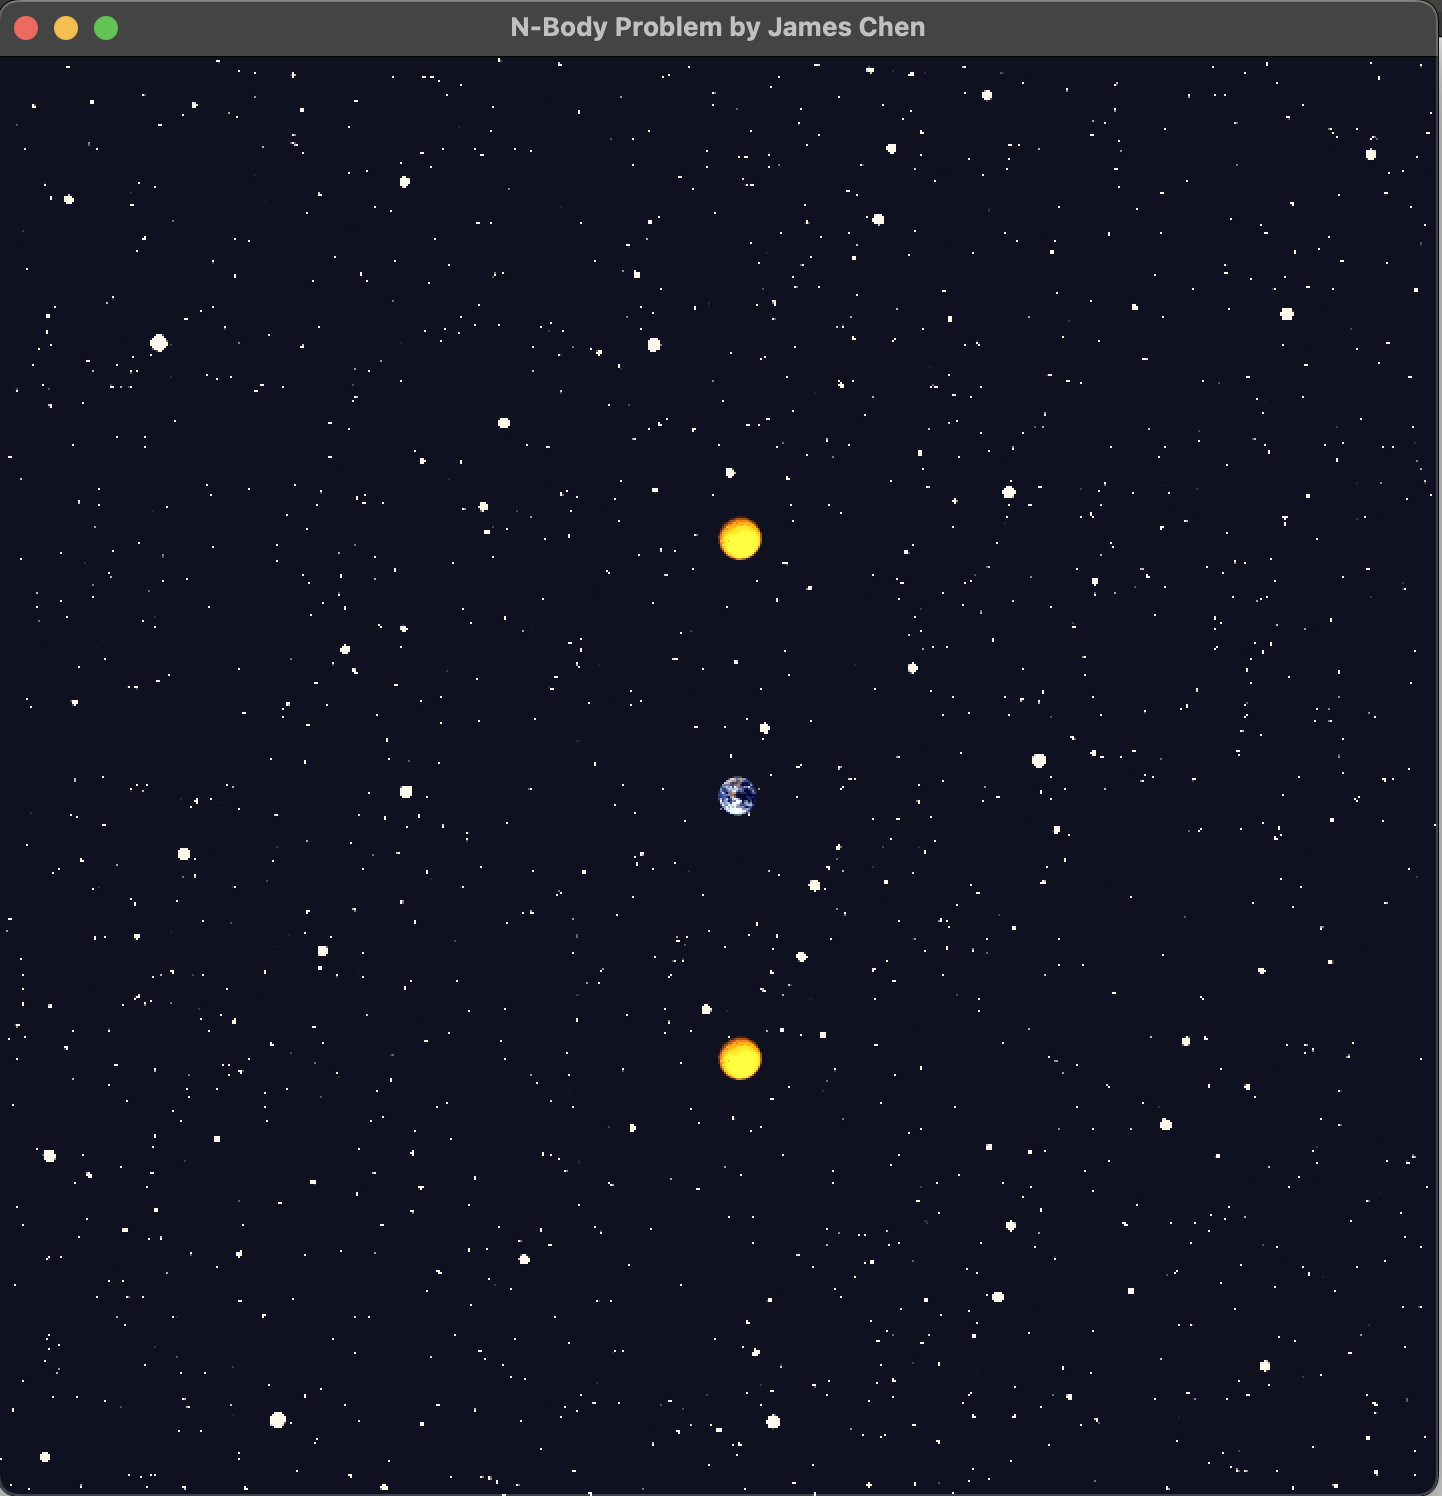
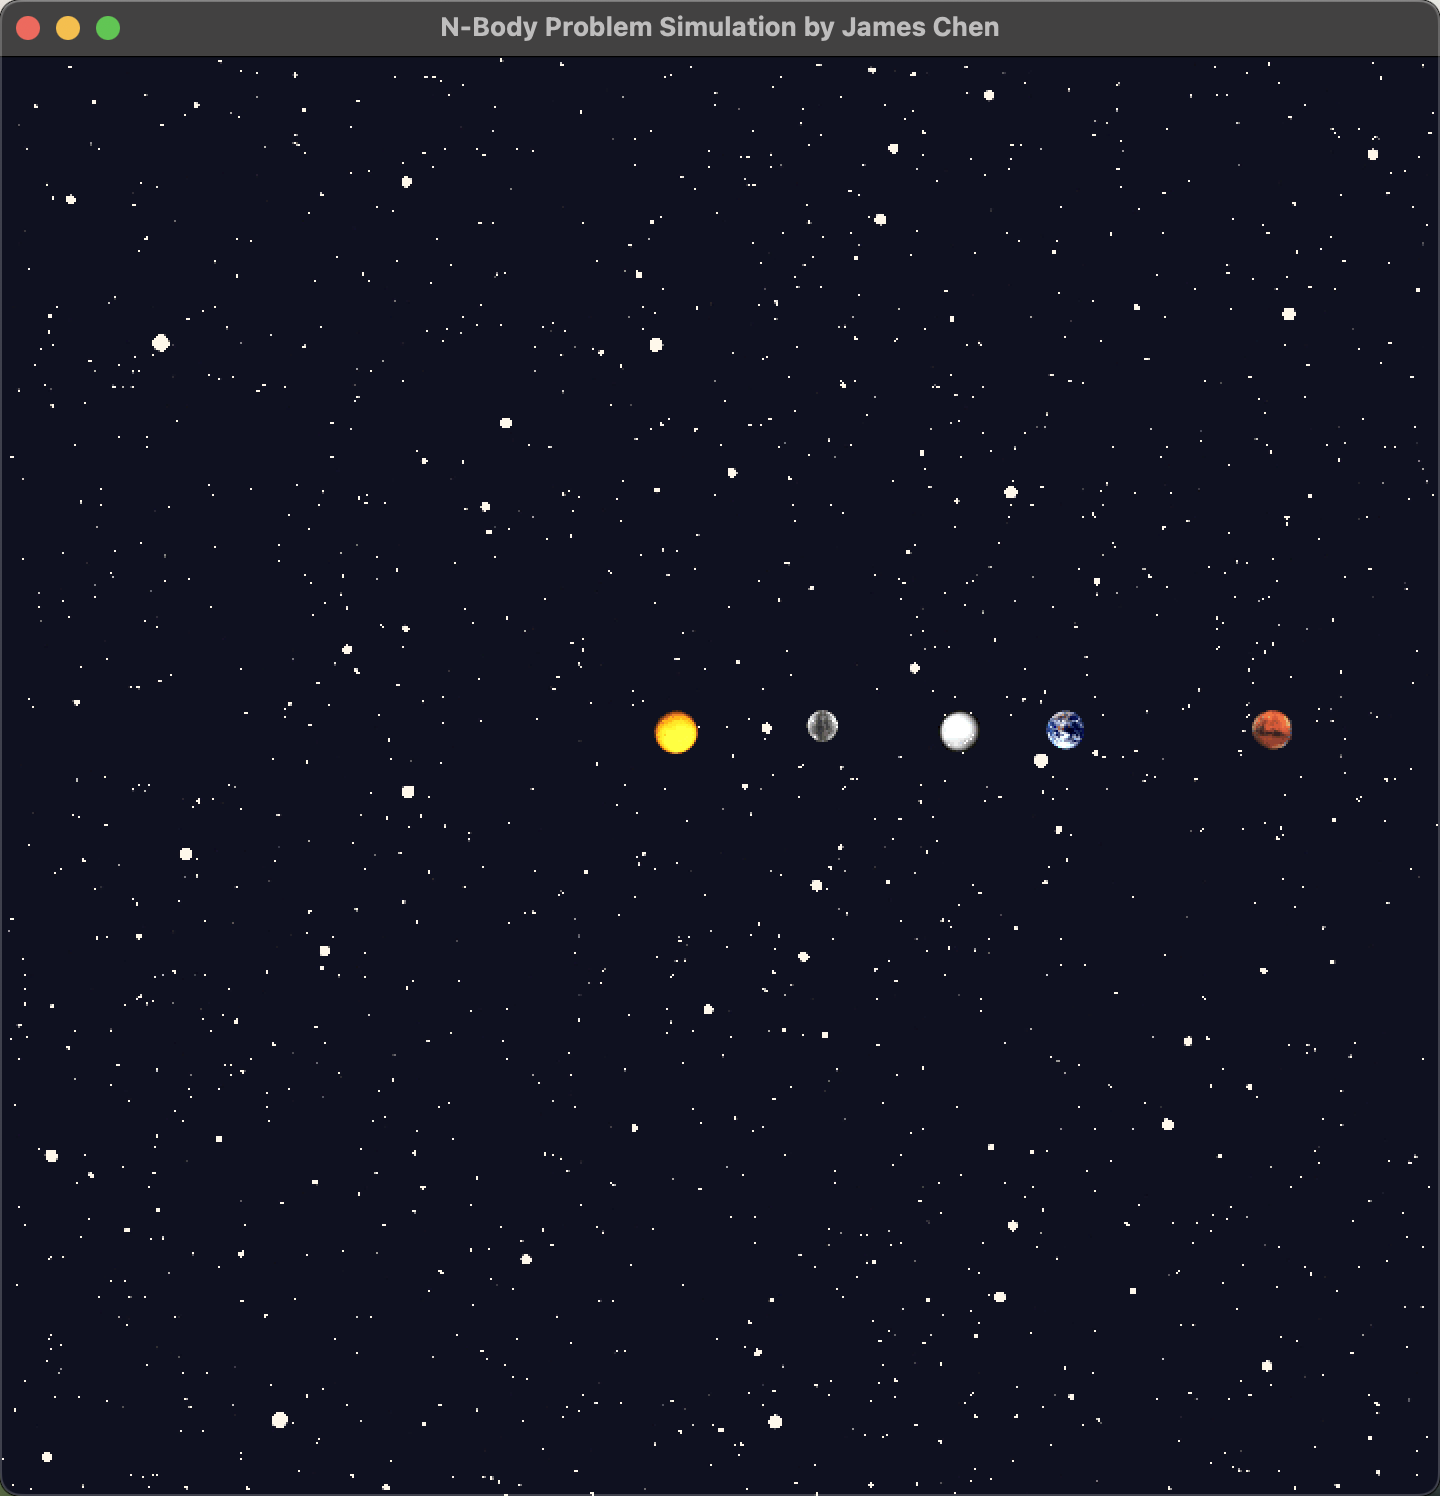
Mar 16, 2024

diff --git a/assignment/ps4b/Universe.cpp b/assignment/ps4b/Universe.cpp
@@ -1,6 +1,7 @@
 // Copyright 2024 James Chen
 
 #include "Universe.hpp"
+#include <cmath>
 #include <fstream>
 #include <iostream>
 #include <limits>
@@ -10,7 +11,7 @@
 #include "NBodyConstant.hpp"
 
 /**
- * Converts a double number into a string in the scientific form.
+ * @brief Converts a double number into a string in the scientific form.
  * @param number The number to convert.
  * @return a string in the form of "x.yye?zz", where x is the integer part, yy is the fraction part,
  * ? is negative sign (optional), and zz is the exponent.
@@ -18,15 +19,32 @@
 std::string to_standard_scientific_string(const double& number) {
     std::ostringstream stream;
     stream << std::scientific << std::setprecision(2) << number;
+    std::string result = stream.str();
 
-    return stream.str();
+    // Remove the '+' sign from the exponent part if present
+    const size_t pos = result.find('e');
+    if (pos != std::string::npos && result[pos + 1] == '+') {
+        result.erase(pos + 1, 1);
+    }
+
+    return result;
 }
 
+/**
+ * @brief Returns the magnitude of a 2-dimensional vector.
+ * @tparam T The type of the vector.
+ * @param vector2 The 2-dimensional vector to find the magnitude.
+ */
 template <typename T>
 T magnitude_vector2(const sf::Vector2<T>& vector2) {
     return static_cast<T>(std::sqrt(vector2.x * vector2.x + vector2.y * vector2.y));
 }
 
+/**
+ * @brief Returns the normalized form of a 2-dimensional vector.
+ * @tparam T The type of the vector.
+ * @param vector2 The 2-dimensional vector to normalize.
+ */
 template <typename T>
 sf::Vector2<T> normalize_vector2(const sf::Vector2<T>& vector2) {
     T magnitude = magnitude_vector2(vector2);
@@ -108,7 +126,8 @@ void Universe::step(const double deltaTime) {
         const auto accelerationY = resultant.y / planet->massDouble();
 
         accelerationVector.emplace_back(
-            isnan(accelerationX) ? 0 : accelerationX, isnan(accelerationY) ? 0 : accelerationY);
+            std::isnan(accelerationX) ? 0 : accelerationX,
+            std::isnan(accelerationY) ? 0 : accelerationY);
     }
 
     // Calculate the new velocity of each planet

diff --git a/assignment/ps4b/test.cpp b/assignment/ps4b/test.cpp
@@ -109,19 +109,34 @@ BOOST_AUTO_TEST_CASE(testCelestialBodyOutput) {
 
     const std::string EXPECT_LINE =
         " 3.535534e+08  3.535534e+08  1.934345e+02 -1.934345e+02 2.00e+23 earth.gif";
+
     BOOST_REQUIRE_EQUAL(line, EXPECT_LINE);
 }
 
 // Tests if "Universe::operator>>" and "Universe::operator<<" works correctly.
-BOOST_AUTO_TEST_CASE(testUniverseOutput) {
+BOOST_AUTO_TEST_CASE(testIdentifyBrokenImplementation) {
     const NB::Universe universe{ "assets/3body.txt" };
     std::stringstream stringstream;
     stringstream << universe;
-    std::string output = stringstream.str();
 
-    const std::string EXPECT_STRING = "3\n1.25e+11\n"
-                                      "0 0 500 0 5.974e+24 earth.gif\n"
-                                      "0 4.5e+10 30000 0 1.989e+30 sun.gif\n"
-                                      "0 -4.5e+10 -30000 0 1.989e+30 sun.gif\n";
-    BOOST_REQUIRE_EQUAL(output, EXPECT_STRING);
+    const std::string EXPECT_STRING = "3\n1.25e11\n"
+                                      "0.00e00  0.00e00  0.05e04  0.00e00  5.974e24  earth.gif\n"
+                                      "0.00e00  4.50e10  3.00e04  0.00e00  1.989e30  sun.gif\n"
+                                      "0.00e00 -4.50e10 -3.00e04  0.00e00  1.989e30  sun.gif";
+
+    BOOST_REQUIRE_EQUAL(stringstream.str(), EXPECT_STRING);
+}
+
+// Tests if `Universe::step()` works correctly
+BOOST_AUTO_TEST_CASE(testUniverseStep1) {
+    NB::Universe universe{ "assets/planets.txt" };
+    universe.step(25000.0);
+
+    const auto celestialBody1 = universe[0];
+    std::cout << celestialBody1.position().x;
+    BOOST_REQUIRE_EQUAL(celestialBody1.position().x, 1.49596291e11);
+    BOOST_REQUIRE_EQUAL(celestialBody1.position().y, 0.0);
+    BOOST_REQUIRE_EQUAL(celestialBody1.position().x, 0.0);
+    BOOST_REQUIRE_EQUAL(celestialBody1.position().y, 0.0);
+    BOOST_REQUIRE_EQUAL(celestialBody1.mass(), 0.0);
 }

diff --git a/assignment/ps4a/CelestialBody.cpp b/assignment/ps4a/CelestialBody.cpp
@@ -46,25 +46,29 @@ void CelestialBody::draw(sf::RenderTarget& target, sf::RenderStates states) cons
 }
 
 std::istream& operator>>(std::istream& istream, CelestialBody& celestialBody) {
-    while (celestialBody.m_line.empty() && !istream.eof()) {
-        getline(istream, celestialBody.m_line);
-        boost::trim(celestialBody.m_line);
+    std::string line;
+    while (line.empty() && !istream.eof()) {
+        getline(istream, line);
+        boost::trim(line);
     }
 
-    std::stringstream stringstream(celestialBody.m_line);
+    std::stringstream stringstream(line);
     stringstream >> celestialBody.m_position.x >> celestialBody.m_position.y >>
         celestialBody.m_velocity.x >> celestialBody.m_velocity.y >> celestialBody.m_mass >>
         celestialBody.m_image_filename;
 
     if (stringstream.fail()) {
-        throw std::runtime_error("Invalid input: " + celestialBody.m_line);
+        throw std::runtime_error("Invalid input: " + line);
     }
 
     return istream;
 }
 
 std::ostream& operator<<(std::ostream& ostream, const CelestialBody& celestialBody) {
-    ostream << celestialBody.m_line;
+    const auto position = celestialBody.position();
+    const auto velocity = celestialBody.velocity();
+    ostream << position.x << " " << position.y << " " << velocity.x << " " << velocity.y << " "
+            << celestialBody.mass() << " " << celestialBody.m_image_filename;
 
     return ostream;
 }

diff --git a/assignment/ps4a/Universe.cpp b/assignment/ps4a/Universe.cpp
@@ -88,13 +88,8 @@ std::ostream& operator<<(std::ostream& ostream, const Universe& universe) {
     ostream << universe.m_numPlanets << std::endl << radius << std::endl;
 
     // Output celestial bodies
-    const auto numPlanets = static_cast<size_t>(universe.m_numPlanets);
-    for (size_t i = 0; i < universe.m_celestialBodyVector.size(); ++i) {
-        const auto celestialBody = universe.m_celestialBodyVector[i];
-        ostream << *universe.m_celestialBodyVector[i];
-        if (i != numPlanets - 1) {
-            ostream << std::endl;
-        }
+    for (const auto& celestialBody : universe.m_celestialBodyVector) {
+        ostream << *celestialBody << std::endl;
     }
 
     return ostream;

diff --git a/assignment/ps4a/Common.cpp b/assignment/ps4a/Common.cpp
@@ -11,8 +11,16 @@ namespace NB {
 std::string to_standard_scientific_string(const double& number) {
     std::ostringstream stream;
     stream << std::scientific << std::setprecision(2) << number;
+    std::string result = stream.str();
 
-    return stream.str();
+    // Check if the exponent part contains a '+' sign
+    // Remove the "+" if found
+    // const size_t pos = result.find('e');
+    // if (pos != std::string::npos && result[pos + 1] == '+') {
+    //     result.erase(pos + 1, 1);
+    // }
+
+    return result;
 }
 
 }  // namespace NB

diff --git a/assignment/ps4a/CelestialBody.hpp b/assignment/ps4a/CelestialBody.hpp
@@ -58,11 +58,6 @@ class CelestialBody final : public sf::Drawable {
     Universe* m_universePtr;
 
     /**
-     * @brief The raw line string.
-     */
-    std::string m_line;
-
-    /**
      * @brief The center coordiante of this celestial body.
      */
     sf::Vector2<double> m_position;

diff --git a/assignment/ps4a/Readme-ps4.md b/assignment/ps4a/Readme-ps4.md
@@ -14,6 +14,8 @@
 
 This program loads and displays a static universe. It reads input data, including the number of planets, the radius of the universe, and the data of each planet, which consists of initial position, velocity, mass, and the filename of the image. After reading all the data, the program shows a window displaying the planets with a captivating background.
 
+<img src="./screenshot.png" alt="Screenshot" style="zoom:50%;" />
+
 ### Features
 
 This project encompasses the creation and implementation of two classes: `Universe` and `CelestialBody`.
